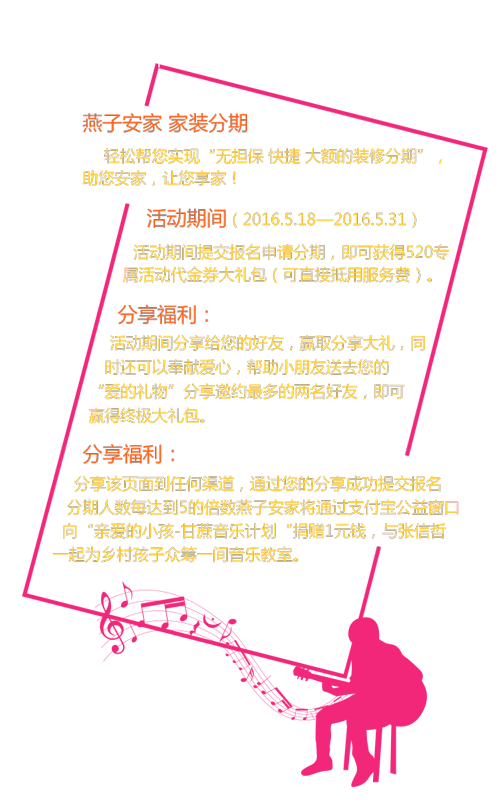
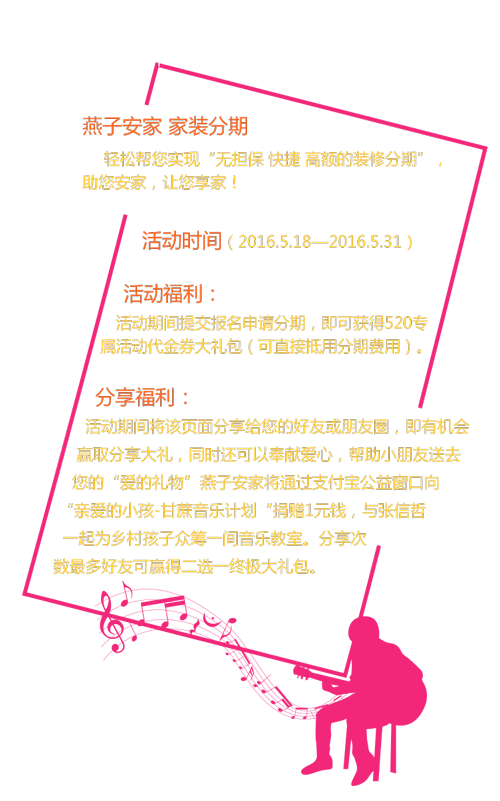
修改520 互动部分样式 及文案问题

diff --git a/webapp/Operating/common/activity.css b/webapp/Operating/common/activity.css
@@ -18,9 +18,9 @@ html,body{height:100%;position:relative;font-size:16px;font-family:microsoft yah
 .page1 .page_div .ul span.color{color:#f80000;vertical-align:middle;}
 .page1 .page_div .ul span.spacing1{letter-spacing:6px;}
 .page1 .page_div .ul span.spacing2{letter-spacing:42px;}
-.page1 .page_div .ul li{line-height:38px;margin-top:4px;}
+.page1 .page_div .ul li{line-height:38px;margin-top:0px;}
 .page1 .page_div .ul li .block{display:block;}
-.page1 .page_div .btn {text-align:center;margin-top:15px;}
+.page1 .page_div .btn {text-align:center;margin-top:5px;}
 .page1 .page_div .btn  a.btn_a{color:#14032a;display:inline-block;width:84%;margin-top:15px;height:40px;line-height:40px;text-align:center;background-color:#f9ed35;border-radius:30px;}
 .page1 .page_div .bg{background-color:#002741;position:absolute;top:0;right:0;left:0;bottom:0;z-index:1;
     /* older safari/Chrome browsers */  
@@ -60,7 +60,7 @@ select{appearance:none;-webkit-appearance: none;}
 .page3 .page_div .div2{height:60%;}
 .page3 .page_div .div1 img.img{height:100%;width:100%;margin:0 auto;}
 .page3 .page_div .div1 ul.ul{position:absolute;left:0;right:0;top:0;bottom:0;}
-.page3 .page_div .div1 ul.ul2{background:url('img/huo.png') no-repeat center 60%;background-size:10% auto;}
+.page3 .page_div .div1 .ul2{overflow:hidden;background:url('img/huo.png') no-repeat center 50%;background-size:10% auto;}
 .page3 .page_div .div1 ul.ul li{font-size:13px;color:#f9c43d;float:left;display:inline-block;width:46%;padding:0 2%;text-align:center;}
 .page3 .page_div .div1 ul.ul li .img1{width:60%;margin:0 auto;}
 .page3 .page_div .div1 ul.ul .p{color:#fa6020;margin:13% 3% 0;}

diff --git a/webapp/Operating/activity.html b/webapp/Operating/activity.html
@@ -65,13 +65,15 @@
 			</div>
 			<div class="div1 div2">
 				<img src="common/img/page3_bg_img2.png" class="img" />
-				<ul class="ul ul2">
-					<p class="p p2">分享该活动到给您的好友<br>
+				<ul class="ul">
+					<p class="p p2">分享该活动给您的好友<br>
 					或朋友圈活动期间分享排名最高者，<br>
 					既可获得终极大礼包。最终解释权<br>
 					归活动发起方所有
+					<div class=" ul2">
 					<li><img src="common/img/page3_img_3.png" class="img1" /><br>小米净化器2</li>
 					<li><img src="common/img/page3_img_4.png" class="img1" /><br>国民老公宋仲基同款雷朋眼镜一副</li>
+					</div>
 				</ul>
 			</div>
 		</div>
